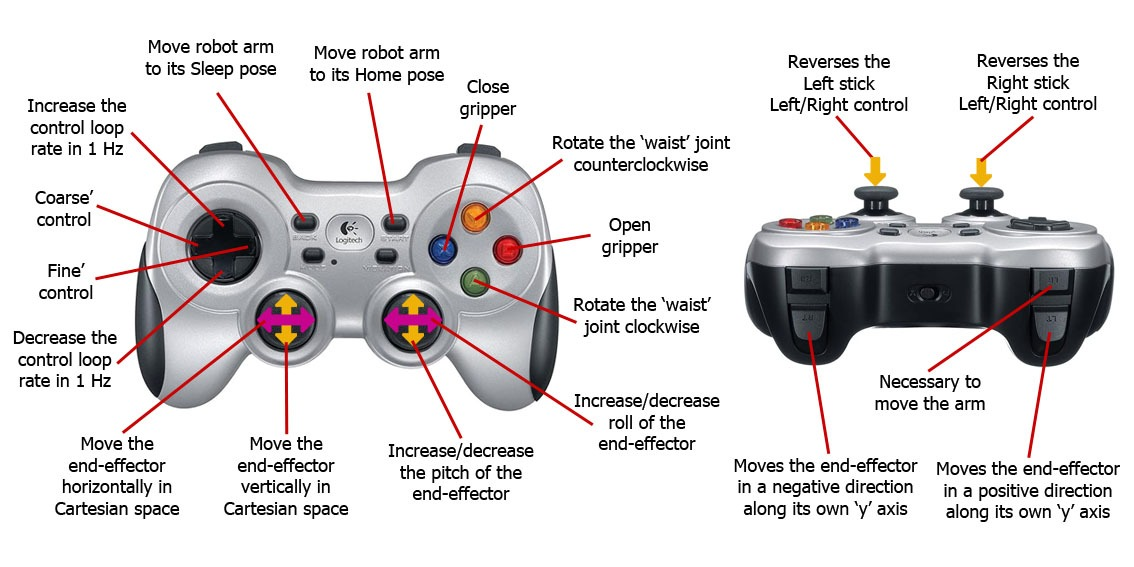
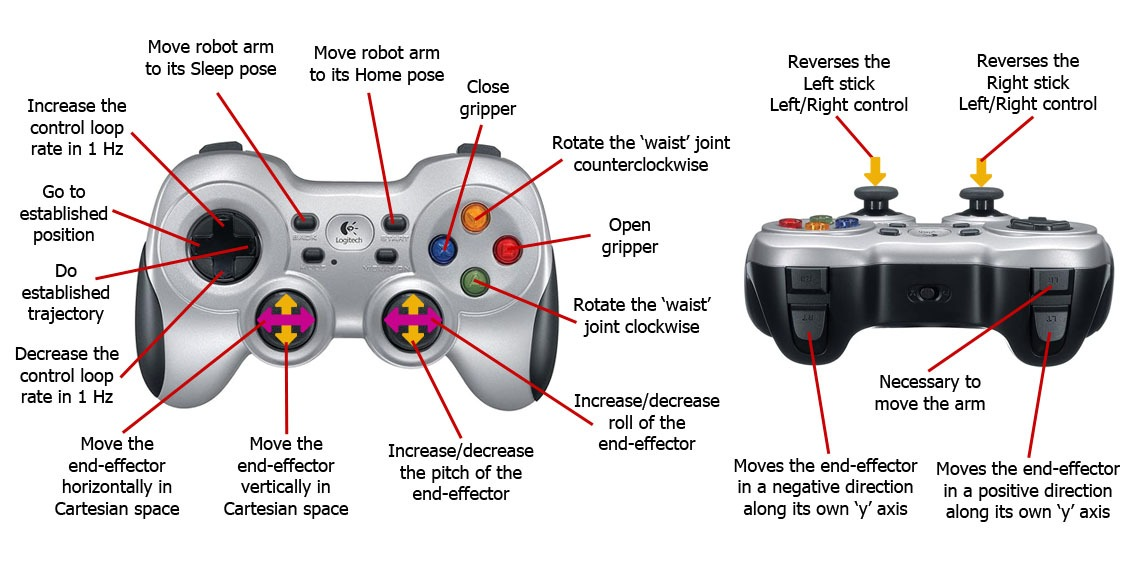
Update trajectory, position, image of control_arm, and readme

diff --git a/src/xsarm_joy.cpp b/src/xsarm_joy.cpp
@@ -35,6 +35,7 @@
 #include "interbotix_xs_msgs/msg/arm_joy.hpp"
 
 #include "cstdlib"
+
 static const std::string pose1_script = "/home/liat05/ros2_ws/src/liat_demo_robot/scripts/position.py";
 static const std::string pose2_script = "/home/liat05/ros2_ws/src/liat_demo_robot/scripts/trajectory.py";
 
@@ -84,8 +85,8 @@ static const button_mappings ps4 = {
   {"EE_Z", 1},
   {"EE_ROLL", 3},
   {"EE_PITCH", 4},
-  {"SPEED_TYPE", 6},
-  {"Take", 7}
+  {"Take", 6},
+  {"SPEED", 7}
 };
 
 // Xbox Controller button mappings
@@ -103,10 +104,10 @@ static const button_mappings xbox = {
   {"FLIP_EE_ROLL", 10},
   {"EE_X", 0},             // axes start here
   {"EE_Z", 1},
-  {"EE_Y_INC", 2}, // mueve extremo del brazo en el eje y+ (Izquierda) cuando esta a cierta distacia hacia enfrrente
-  {"EE_ROLL", 3}, // Rota el ultimo eslabon
-  {"EE_PITCH", 4}, // Rota el brazo en el eje y
-  {"EE_Y_DEC", 5}, // mueve extremo del brazo en el eje y-(derecha) cuando esta a cierta distacia hacia enfrente
+  {"EE_Y_INC", 2},
+  {"EE_ROLL", 3},
+  {"EE_PITCH", 4},
+  {"EE_Y_DEC", 5},
   {"Take", 6},
   {"SPEED", 7}
 };
@@ -286,19 +287,9 @@ private:
       } else if (msg.buttons.at(cntlr["SLEEP_POSE"]) == 1) {
         joy_cmd.pose_cmd = interbotix_xs_msgs::msg::ArmJoy::SLEEP_POSE;
       } else if(msg.axes.at(cntlr["Take"]) == 1) {
-        int result = system(pose1_script.c_str());
-        if (result == 0) {
-            RCLCPP_INFO(this->get_logger(), "Script pose1.py.");
-        } else {
-            RCLCPP_ERROR(this->get_logger(), "Error script pose1.py.");
-        }
+        system(pose1_script.c_str());
       } else if(msg.axes.at(cntlr["Take"]) == -1) {
-        int result = system(pose2_script.c_str());
-        if (result == 0) {
-            RCLCPP_INFO(this->get_logger(), "Script pose2.py");
-        } else {
-            RCLCPP_ERROR(this->get_logger(), "Error pose2.py.");
-        }
+        system(pose2_script.c_str());
       }
 
       if (controller_type == "ps3") {

diff --git a/scripts/trajectory.py b/scripts/trajectory.py
@@ -52,6 +52,7 @@ def main():
     bot.gripper.release()
     bot.arm.set_ee_pose_components(x=0.3, z=-0.26,pitch=1.5,moving_time=2.3)
     bot.gripper.grasp()
+    bot.gripper.grasp()
     bot.arm.set_ee_pose_components(x=0.55, z=0.4,moving_time=2.3)
     bot.shutdown()
 

diff --git a/scripts/position.py b/scripts/position.py
@@ -51,6 +51,8 @@ def main():
     )
     bot.gripper.release()
     bot.arm.set_ee_pose_components(x=0.3, z=-0.2,pitch=1.5,moving_time=2.3)
+    bot.gripper.grasp()
+    bot.shutdown()
 
 if __name__ == '__main__':
     main()

diff --git a/README.md b/README.md
@@ -230,7 +230,8 @@ To start the nodes for the robots, open a terminal window and run the first comm
 ```
 ros2 launch liat_demo_robot liat_demo_arm-camera.launch.py
 ```
-If you can't see the image in the interfaze of image view, select the camera and kinde of image in the left top of interface image view.
+If you can't see the image in the interfaze of image view, select the camera and image type in the top left corner of the image view interface.
+
 Note: To watch the image in the rviz do click in "Add", then en "By topic" and finally select image.
 
 If only want to use the robotic arm without the camera: `ros2 launch liat_demo_robot demo_arm.launch.py`
@@ -259,10 +260,10 @@ Note: The following driamans and tables were made using the "xbox" option with t
 | Y | rotate the ‘waist’ joint counterclockwise |
 | B | open gripper |
 | x | close gripper |
-| D-pad Up | increase the control loop rate in 1 Hz step increments (max of 40)
-| D-pad Down | decrease the control loop rate in 1 Hz step increments (min of 10)
-| D-pad Left | coarse’ control - sets the control loop rate to a user-preset ‘fast’ rate
-| D-pad Right | fine’ control - sets the control loop rate to a user-preset ‘slow’ rate
+| D-pad Up | increase the control loop rate in 1 Hz step increments (max of 40) |
+| D-pad Down | decrease the control loop rate in 1 Hz step increments (min of 10) |
+| D-pad Left | go to position x=0.3, z=-0.2,pitch=1.5|
+| D-pad Right | do the trayectory: open gripper; x=0.3, z=-0.26,pitch=1.5; close gripper; and x=0.55, z=0.4 |
 | Right stick Up/Down | increase/decrease the pitch of the end-effector
 | Right stick Left/Right | increase/decrease roll of the end-effector
 | R3 | reverses the Right stick Left/Right control
@@ -273,7 +274,13 @@ Note: The following driamans and tables were made using the "xbox" option with t
 | LT | if the arm has 6dof, this moves the end-effector in a positive direction along its own ‘y’ axis
 | Logitech | if torqued on, holding for 3 seconds will torque off the robot; if torqued off, tapping the button will torque on the robot
 
-Note: To move the arm robotic hold down the LB button always.
+**Note:**
+
+To move the arm robotic hold down the LB button always.
+
+If when you move the joysticks the robotic arm't move, push back (Sleep) first.
+
+After to push the button D-pad Left/ D-pad right to move the arm to a established position or trajectory, push Star (Home) or Back(Sleep) to unlock the arm and move normaly. To configure correctly the buttons check the section "Customize launches files and other settings".
 
 - **Hunter robot button map**
 
@@ -295,7 +302,13 @@ For turbo mode push L3 betwin RB in Xbox control, and R2 button in PS4 control.
 
 If you push the LB and RB buttons to move the Hunter and the arm robotic, only the Hunter will move.
 
-### Customize launches files
+### Customize launches files and other settings
+
+To customize launches files when you use the robots follow instructions below. 
+Theres some intruction to modify the end position and trajectory estrablised.
+
+#### Arm robot
+
 - To further customize the launch file at run-time for the robotic arm, look at the table below:
 
 | Argument | Description | Default | Choices |
@@ -305,6 +318,25 @@ If you push the LB and RB buttons to move the Hunter and the arm robotic, only t
 | `use_rviz` | Launches RViz if set to true. | `true` | `true`, `false` |
 
 For more customization option and information visit the [documentation](https://docs.trossenrobotics.com/interbotix_xsarms_docs/ros2_packages/joystick_control.html)
+
+- Modification to can use the buttons to position and trajectory established
+
+To should use the buttons to move the arm to the position and trajectory established you need to change the path where files when describe that.
+In the file "src/xsarm_joy.cpp" change `/home/liat05/ros2_ws` with the path where is you workspace. The part of code to modify is:
+```
+static const std::string pose1_script = "/home/liat05/ros2_ws/src/liat_demo_robot/scripts/position.py";
+static const std::string pose2_script = "/home/liat05/ros2_ws/src/liat_demo_robot/scripts/trajectory.py";
+```
+
+- Modify the move position established
+
+To modify the position established go to the file "Scripts/position.py"
+
+- Modify the trajectory established
+
+To modify the trajectory established go to the file "Scripts/trajectory.py"
+
+#### Hunter robot
 
 - To configure the control in the Hunter robot launch file
 
